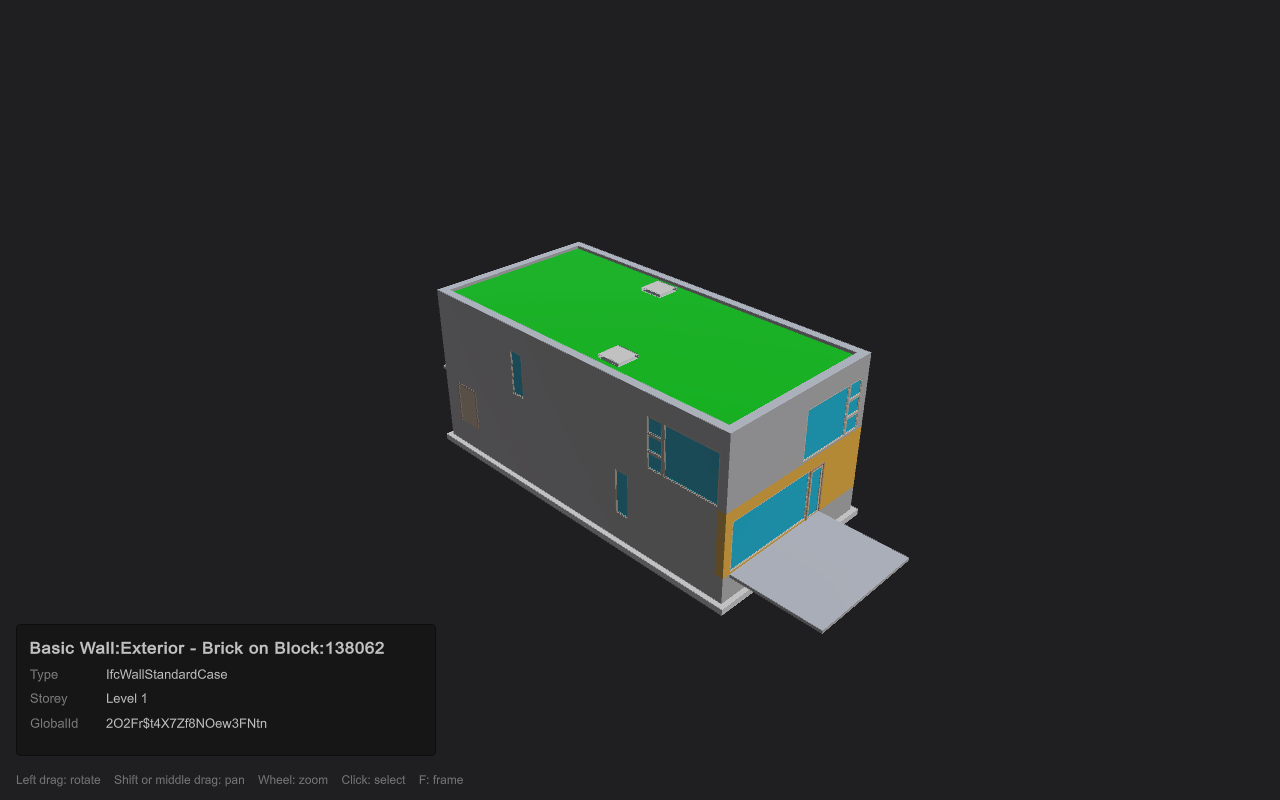
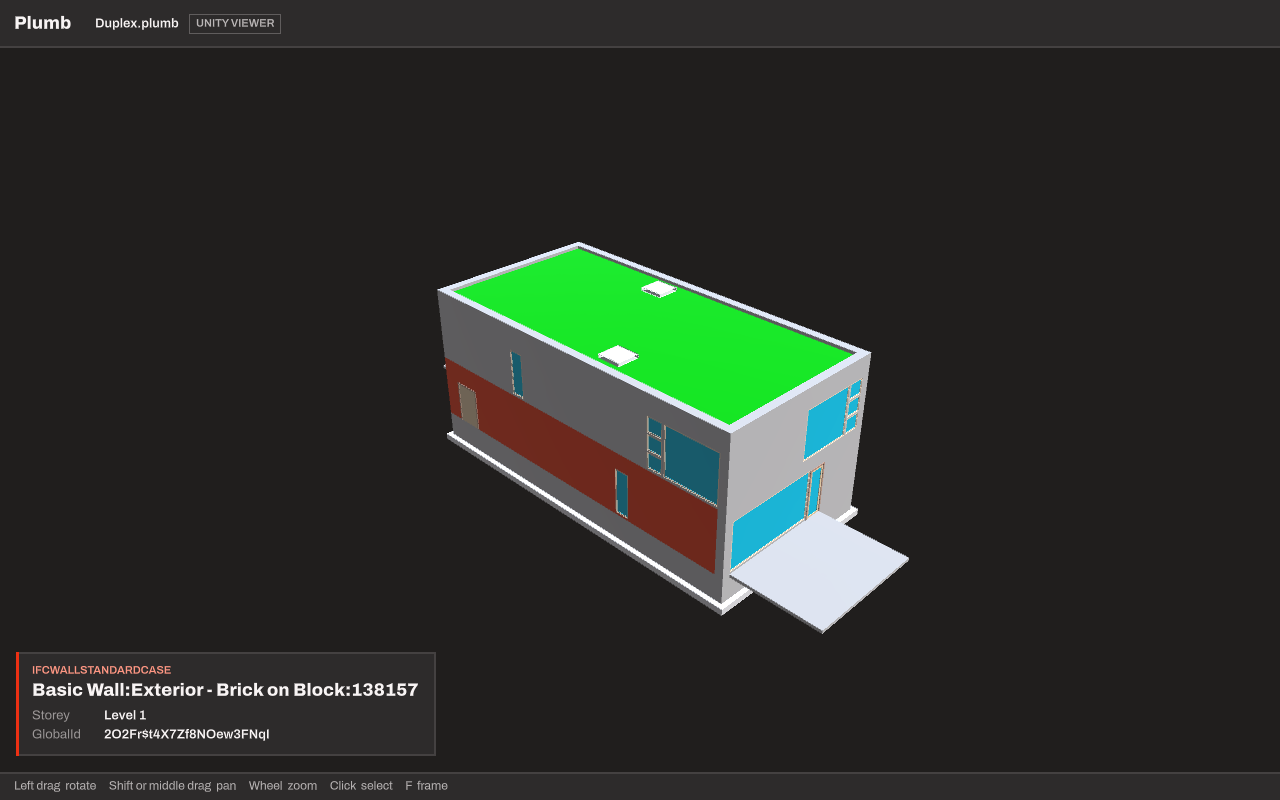
docs: show the Graphite app and viewer in the README

Changed region(s): [[0.3438, 0.2812, 0.7188, 0.7812], [0.0, 0.7812, 0.375, 1.0], [0.0, 0.0, 0.2188, 0.0625]]

diff --git a/README.md b/README.md
@@ -24,12 +24,9 @@ Desktop viewer for IFC building models. Open an `.ifc` file, browse its spatial 
     V
  ~~~~~~~~~~~~~~~~~~~~~~~~~~~~~~~~~~~~~~~~
 ```
-<picture>
-  <source media="(prefers-color-scheme: dark)" srcset="docs/plumb-dark.png">
-  <img alt="Plumb with the Duplex model open: spatial tree on the left, properties of the selected wall on the right" src="docs/plumb-light.png">
-</picture>
+![Plumb with the Duplex model open: spatial tree on the left, properties of the selected wall on the right](docs/plumb.png)
 
-![The Unity viewer with Duplex open and an exterior wall selected](docs/viewer.png)
+![The Unity viewer with the same wall selected](docs/viewer.png)
 
 ## Features
 
@@ -37,11 +34,11 @@ Desktop viewer for IFC building models. Open an `.ifc` file, browse its spatial 
 - Shows the spatial structure: project, site, building and storeys sorted by elevation, with elements grouped by IFC type. Parts of aggregates, such as stair flights, appear under their parent element and keep its storey.
 - Shows instance and type property sets and quantity sets for the selected element. Instance values override type values.
 - Resolves units from the project's unit assignment when a property does not specify its own.
-- Filters the tree by element name or IFC type.
+- Filters the tree by element name, IFC type or GlobalId.
 - Opens the package in a Unity viewer: orbit, pan and zoom, click an element to highlight it and see its name, type, storey and GlobalId, press F to frame it.
 - Converts the geometry to binary glTF (`model.glb`) with IfcOpenShell's IfcConvert. Every mesh node is named by its IFC GlobalId, so a 3D viewer can map a click back to the element and its properties.
 - Saves every import as a `.plumb` package next to the source file. Opening the package skips IFC parsing entirely. When that folder is read-only, the model still opens and the app shows why it was not saved.
-- Imports in the background with progress and cancellation. A cancelled or failed import never leaves a half-written package behind.
+- Imports in the background, showing each step of the pipeline with its time, and can be cancelled at any point. A cancelled or failed import never leaves a half-written package behind.
 - Keeps the model when a secondary step fails: if the package cannot be saved, or IfcConvert is missing, fails or times out, the tree and properties still open and the app shows why.
 
 | Duplex sample: 2.4 MB, 246 elements, 12,713 property values | Time |
